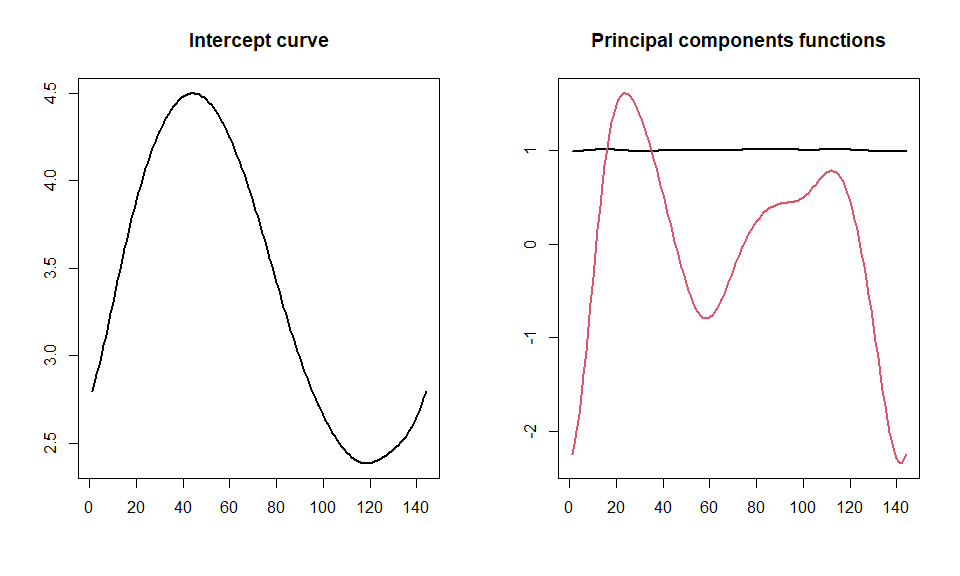
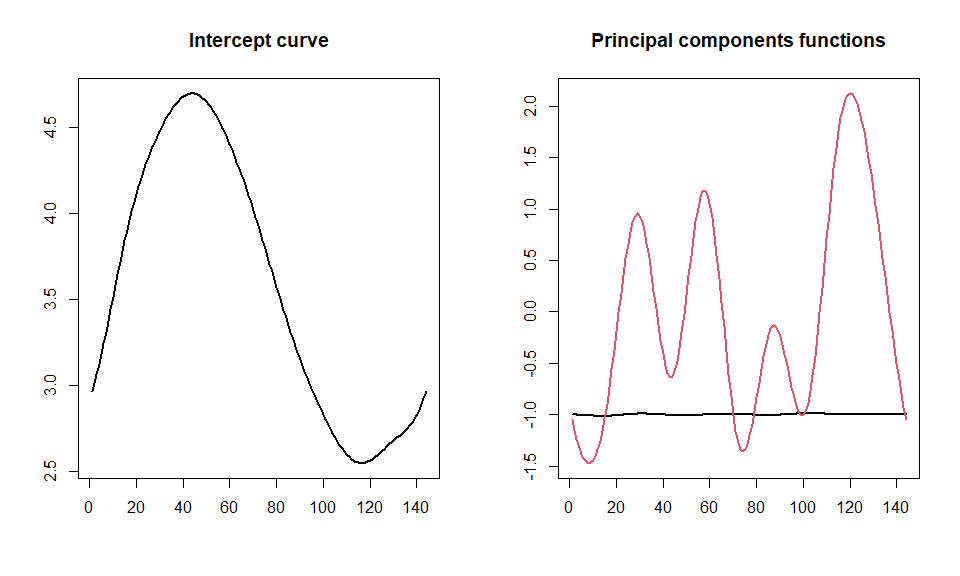
Properly set tf package dependency

diff --git a/README.md b/README.md
@@ -72,10 +72,14 @@ example generates a fake dataset with 200 observations taken every 10
 minutes during one day. This defines a data matrix with 200 rows and 144
 columns following the formula:
 
-$$x_i = \lambda_1(sin(t)+sin(0.5t))+\varepsilon_i$$ where \*
-$\lambda_1\sim N(0,0.4)$ \* $\varepsilon_i\sim\chi^2(3)$
+$$x_i = \lambda_1(sin(t)+sin(0.5t))+\varepsilon_i$$ where
+
+- $\lambda_1\sim N(0,0.4)$
+- $\varepsilon_i\sim\chi^2(3)$
 
 ``` r
+set.seed(5)
+
 n = 200
 t = 144
 time.points = seq(0, 2*pi, length.out=t)
@@ -138,7 +142,7 @@ use as prediction error metric.
 
 ``` r
 quantile_error(Y=Y.train, Y.pred=Y.train.estimated, quantile.value=0.5)
-#> [1] 0.1541145
+#> [1] 0.1575061
 ```
 
 ## Example 2: cross validating
@@ -162,50 +166,80 @@ plot(tf_data, col='black')
 <img src="man/figures/README-unnamed-chunk-9-1.png" width="100%" />
 
 ``` r
-cv_result = cross_validation_df(tf_data, splines.df.grid=c(5, 10, 15), n.folds=2)
+splines.df.grid = c(5, 10, 15)
+cv_result = cross_validation_df(tf_data, splines.df.grid=splines.df.grid, n.folds=2)
 #> Degrees of freedom: 5 ---------------------
 #> Fold: 1
 #> Fold: 2
-#> Degrees of freedom: 5 .Execution completed in: 0.5 seconds
+#> Degrees of freedom: 5 .Execution completed in: 0.38 seconds
 #> Degrees of freedom: 10 ---------------------
 #> Fold: 1
 #> Fold: 2
-#> Degrees of freedom: 10 .Execution completed in: 0.62 seconds
+#> Degrees of freedom: 10 .Execution completed in: 0.6 seconds
 #> Degrees of freedom: 15 ---------------------
 #> Fold: 1
 #> Fold: 2
-#> Degrees of freedom: 15 .Execution completed in: 0.54 seconds
+#> Degrees of freedom: 15 .Execution completed in: 0.53 seconds
 
 cv_result$error.matrix
 #>           [,1]      [,2]
-#> [1,] 0.5594877 0.5595035
-#> [2,] 0.5339964 0.5302255
-#> [3,] 0.5289778 0.5277949
+#> [1,] 0.5597133 0.5693647
+#> [2,] 0.5267699 0.5433952
+#> [3,] 0.5244181 0.5390324
 ```
 
 The dimensions of the error matrix are (length(splines.df.grid),
-n.folds)
+n.folds). We can find the optimal number of degrees of freedom by
+taking, for example, the mean of each row and picking the minimum.
+
+``` r
+optimal_df = which.min(rowMeans(cv_result$error.matrix))
+
+paste0('Optimal number of degrees of freedom: ', splines.df.grid[optimal_df])
+#> [1] "Optimal number of degrees of freedom: 15"
+```
+
+Now we can build the final model using the optimal number of degrees of
+freedom, and check the number of components based on the percentage of
+explained variability.
+
+``` r
+results = fqpca(Y=tf_data, npc=10, quantile.value=0.5, splines.df=15, seed=5)
+
+cumsum(results$pve)
+#>  [1] 0.8881699 0.9733824 0.9922474 0.9974198 0.9984257 0.9992301 0.9996471
+#>  [8] 0.9998388 0.9999582 1.0000000
+```
+
+This shows that with 2 components we are able to explain 97% of the
+variability in the data.
+
+The package also includes a function that allows to perform cross
+validation on the hyper-parameter controlling the effect of a second
+derivative penalty on the splines. Be aware that this smoothness
+controlling process is experimental and may be subject to computation
+issues.
 
 ``` r
 cv_result = cross_validation_alpha(tf_data, alpha.grid=c(0, 1e-10, 1e-5), n.folds=2)
 #> alpha: 0 ---------------------
 #> Fold: 1
 #> Fold: 2
-#> Alpha 0 execution completed in: 26.48 seconds
+#> Alpha 0 execution completed in: 17.1 seconds
 #> alpha: 1e-10 ---------------------
 #> Fold: 1
 #> Fold: 2
-#> Alpha 1e-10 execution completed in: 15.37 seconds
+#> Alpha 1e-10 execution completed in: 11.42 seconds
 #> alpha: 1e-05 ---------------------
 #> Fold: 1
 #> Fold: 2
-#> Alpha 1e-05 execution completed in: 24.98 seconds
+#> Alpha 1e-05 execution completed in: 9.44 seconds
 
 cv_result$error.matrix
 #>           [,1]      [,2]
-#> [1,] 0.5352868 0.5373103
-#> [2,] 0.5367752 0.5400901
-#> [3,] 0.6306825 0.6297293
+#> [1,] 0.5337405 0.5356558
+#> [2,] 0.5399521 0.5355772
+#> [3,] 0.6243240 0.6118602
 ```
 
 The dimensions of the error matrix are (length(alpha.grid), n.folds)
